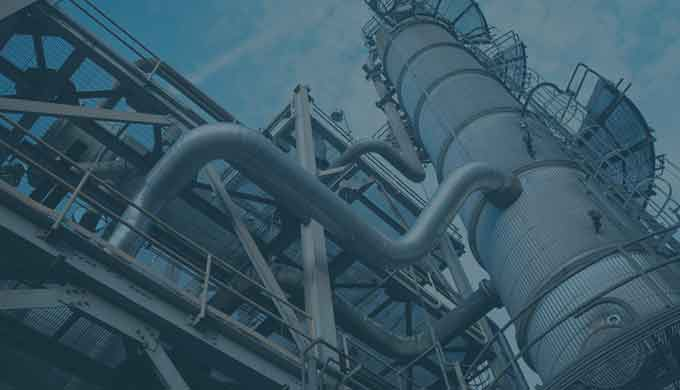
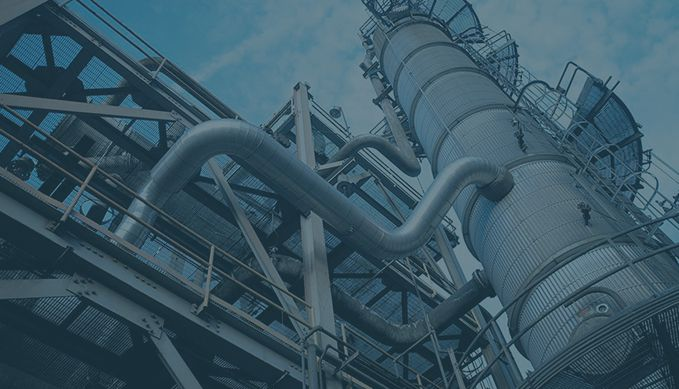
making adjustments per Elana's instructions

diff --git a/innovation/2014-06-02/desktop/css/style.css b/innovation/2014-06-02/desktop/css/style.css
@@ -6,10 +6,10 @@
 
 html, body { margin: 0; padding: 0; -webkit-font-smoothing: antialiased; -moz-osx-font-smoothing: grayscale; }
 
-a { -webkit-transition: all 100ms linear; -moz-transition: all 100ms linear; -o-transition: all 100ms linear; -ms-transition: all 100ms linear; transition: all 100ms linear; color: inherit; text-decoration: none; }
-a:hover { opacity: 0.7; }
-a.no-fade { opacity: 1.0 !important; }
-a.no-fade:hover { opacity: 1.0 !important; }
+.learn-more { -webkit-transition: all 100ms linear; -moz-transition: all 100ms linear; -o-transition: all 100ms linear; -ms-transition: all 100ms linear; transition: all 100ms linear; color: inherit; text-decoration: none; }
+.learn-more:hover { opacity: 0.7; }
+.learn-more.no-fade { opacity: 1.0 !important; }
+.learn-more.no-fade:hover { opacity: 1.0 !important; }
 
 ul li { list-style-type: none; padding: 0; }
 
@@ -20,8 +20,10 @@ img { opacity: inherit; }
 .logo { position: absolute; right: 20px; bottom: 15px; z-index: 4000; }
 
 ul.carousel { margin: 0; padding-top: 40px; padding-left: 0; }
-ul.carousel li { -webkit-border-radius: 10px; -moz-border-radius: 10px; border-radius: 10px; width: 680px; height: 390px; background: #ffffff; display: inline-block; -webkit-transition: all 0.3s ease-in-out; -moz-transition: all 0.3s ease-in-out; transition: all 0.3s ease-in-out; overflow: hidden; cursor: pointer; background-color: #55A6C8; box-shadow: 0 0 20px 0 rgba(0, 0, 0, 0.5); }
-ul.carousel li .text { position: absolute; top: 0; left: 0; }
+ul.carousel li { -webkit-border-radius: 10px; -moz-border-radius: 10px; border-radius: 10px; height: 390px; display: inline-block; -webkit-transition: all 0.3s ease-in-out; -moz-transition: all 0.3s ease-in-out; transition: all 0.3s ease-in-out; overflow: hidden; cursor: pointer; box-shadow: 0 0 20px 0 rgba(0, 0, 0, 0.5); }
+ul.carousel li .text { position: absolute; top: 0; left: 0; width: 100%; height: 100%; }
+ul.carousel li .overlay { position: absolute; top: 0; left: 0; opacity: 0; width: 100%; height: 100%; background-color: rgba(0, 0, 0, 0.8); -webkit-transition: opacity 300ms linear; -moz-transition: opacity 300ms linear; -ms-transition: opacity 300ms linear; -o-transition: opacity 300ms linear; transition: opacity 300ms linear; }
+ul.carousel li.back-pos .overlay, ul.carousel li.left-pos .overlay, ul.carousel li.right-pos .overlay { opacity: 1; z-index: 1; }
 
 .items { position: absolute; }
 
@@ -42,7 +44,6 @@ ul.carousel li .text { position: absolute; top: 0; left: 0; }
 .arrow-right { right: 15px; }
 
 .learn-more { position: absolute; bottom: 0; right: 0; }
-.learn-more:hover { opacity: 0.7; }
 
 @media only screen and (max-width: 1000px) { .carousel { padding-top: 100px !important; -ms-transform: scale(0.8); -webkit-transform: scale(0.8); transform: scale(0.8); } }
 @media only screen and (max-width: 850px) { .carousel { padding-top: 150px !important; -ms-transform: scale(0.6); -webkit-transform: scale(0.6); transform: scale(0.6); } }

diff --git a/innovation/2014-06-02/desktop/index.html b/innovation/2014-06-02/desktop/index.html
@@ -41,36 +41,46 @@
 		<ul class="carousel">
 			<li class="items main-pos" id="1">
 				<img src="images/slide-intro-background.jpg"/>
-				<img class="text" src="images/slide-intro-text.png"/><!--<img class="learn-more" src="images/click-to-explore.png"/>-->
+				<img class="text" src="images/slide-intro-text.png"/>
+				<div class="overlay"></div>
 			</li>
 			<li class="items right-pos" id="2">
 				<img src="images/slide-1-background.jpg"/>
 				<img class="text" src="images/slide-1-text.png"/>
+				<div class="overlay"></div>
 			</li>
 			<li class="items back-pos" id="3">
 				<img src="images/slide-3-background.jpg"/>
 				<img class="text" src="images/slide-3-text.png"/>
+				<div class="overlay"></div>
 			</li>
 			<li class="items back-pos" id="4">
 				<img src="images/slide-4-background.jpg"/>
 				<img class="text" src="images/slide-4-text.png"/>
+				<div class="overlay"></div>
 			</li>
 			<li class="items back-pos" id="5">
 				<img src="images/slide-5-background.jpg"/>
 				<img class="text" src="images/slide-5-text.png"/>
+				<div class="overlay"></div>
 			</li>
 			<li class="items back-pos" id="6">
 				<img src="images/slide-6-background.jpg"/>
 				<img class="text" src="images/slide-6-text.png"/>
+				<div class="overlay"></div>
 			</li>
 			<li class="items back-pos" id="7">
 				<img src="images/slide-2-background.jpg"/>
 				<img class="text" src="images/slide-2-text.png"/>
+				<div class="overlay"></div>
 			</li>
 			<li class="items back-pos" id="8">
-				<img src="images/slide-7-background.jpg"/>
-				<img class="text" src="images/slide-7-text.png"/><a href="http://www.ge.com/in/" target="_blank">
-				<img class="learn-more" src="images/learn-more.png"/></a>
+				<a href="http://www.ge.com/in/" target="_blank">
+					<img src="images/slide-7-background.jpg"/>
+					<img class="text" src="images/slide-7-text.png"/>
+					<img class="learn-more" src="images/learn-more.png"/>
+					<div class="overlay"></div>
+				</a>
 			</li>
 		</ul>
 

diff --git a/innovation/2014-06-02/desktop/scss/style.scss b/innovation/2014-06-02/desktop/scss/style.scss
@@ -22,7 +22,7 @@ html, body {
 	-moz-osx-font-smoothing: grayscale;
 }
 
-a {
+.learn-more {
 	-webkit-transition: all 100ms linear;
 	-moz-transition: all 100ms linear;
 	-o-transition: all 100ms linear;
@@ -30,11 +30,14 @@ a {
 	transition: all 100ms linear;
 	color: inherit;
 	text-decoration: none;
+
 	&:hover {
 		opacity: 0.7;
 	}
 	&.no-fade {
+
 		opacity: 1.0 !important;
+		
 		&:hover {
 			opacity: 1.0 !important;
 		}
@@ -70,25 +73,46 @@ ul.carousel {
 	margin: 0;
 	padding-top: 40px;
 	padding-left: 0;
+
 	li {
 		-webkit-border-radius: 10px;
 		-moz-border-radius: 10px;
 		border-radius: 10px;
-		width: 680px;
 		height: 390px;
-		background: #ffffff;
 		display: inline-block;
 		-webkit-transition: all 0.3s ease-in-out;
 		-moz-transition: all 0.3s ease-in-out;
 		transition: all 0.3s ease-in-out;
 		overflow: hidden;
 		cursor: pointer;
-		background-color: #55A6C8;
 		box-shadow: 0 0 20px 0 rgba(0, 0, 0, 0.5);
+
 		.text {
 			position: absolute;
 			top: 0;
 			left: 0;
+			width: 100%;
+			height: 100%;
+		}
+		.overlay {
+			position: absolute;
+			top: 0;
+			left: 0;
+			opacity: 0;
+			width: 100%;
+			height: 100%;
+			background-color: rgba(0,0,0,.8);
+			-webkit-transition: opacity 300ms linear;
+			-moz-transition: opacity 300ms linear;
+			-ms-transition: opacity 300ms linear;
+			-o-transition: opacity 300ms linear;
+			transition: opacity 300ms linear;
+		}
+		&.back-pos, &.left-pos, &.right-pos {
+			.overlay {
+				opacity: 1;
+				z-index: 1;
+			}
 		}
 	}
 }
@@ -154,9 +178,10 @@ ul.carousel {
 	position: absolute;
 	bottom: 0;
 	right: 0;
-	&:hover {
-		opacity: 0.7;
-	}
+
+	// &:hover {
+	// 	opacity: 0.7;
+	// }
 }
 
 @media only screen and (max-width: 1000px) {

diff --git a/innovation/2014-06-02/tablet/css/style.css b/innovation/2014-06-02/tablet/css/style.css
@@ -6,10 +6,10 @@
 
 html, body { margin: 0; padding: 0; -webkit-font-smoothing: antialiased; -moz-osx-font-smoothing: grayscale; }
 
-a { -webkit-transition: all 100ms linear; -moz-transition: all 100ms linear; -o-transition: all 100ms linear; -ms-transition: all 100ms linear; transition: all 100ms linear; color: inherit; text-decoration: none; }
-a:hover { opacity: 0.7; }
-a.no-fade { opacity: 1.0 !important; }
-a.no-fade:hover { opacity: 1.0 !important; }
+.learn-more { -webkit-transition: all 100ms linear; -moz-transition: all 100ms linear; -o-transition: all 100ms linear; -ms-transition: all 100ms linear; transition: all 100ms linear; color: inherit; text-decoration: none; }
+.learn-more:hover { opacity: 0.7; }
+.learn-more.no-fade { opacity: 1.0 !important; }
+.learn-more.no-fade:hover { opacity: 1.0 !important; }
 
 ul li { list-style-type: none; padding: 0; }
 
@@ -49,4 +49,3 @@ ul.carousel li .text { position: absolute; top: 0; left: 0; width: 100%; }
 .arrow-right { right: 15px; }
 
 .learn-more { position: absolute; bottom: 0; right: 0; width: 225px; }
-.learn-more:hover { opacity: 0.7; }

diff --git a/innovation/2014-06-02/tablet/index.html b/innovation/2014-06-02/tablet/index.html
@@ -75,11 +75,12 @@
 				<div class="overlay"><div>
 			</li>
 			<li class="items back-pos" id="8">
-				<img src="images/slide-8-background.jpg"/>
-				<img class="text" src="images/slide-8-text.png"/>
 				<a href="http://www.ge.com/in/" target="_blank">
+					<img src="images/slide-8-background.jpg"/>
+					<img class="text" src="images/slide-8-text.png"/>
 					<img class="learn-more" src="images/learn-more.png"/>
-				</a><div class="overlay"><div>
+					<div class="overlay"><div>
+				</a>
 			</li>
 		</ul>
 

diff --git a/innovation/2014-06-02/tablet/scss/style.scss b/innovation/2014-06-02/tablet/scss/style.scss
@@ -22,7 +22,7 @@ html, body {
 	-moz-osx-font-smoothing: grayscale;
 }
 
-a {
+.learn-more {
 	-webkit-transition: all 100ms linear;
 	-moz-transition: all 100ms linear;
 	-o-transition: all 100ms linear;
@@ -30,6 +30,7 @@ a {
 	transition: all 100ms linear;
 	color: inherit;
 	text-decoration: none;
+	
 	&:hover {
 		opacity: 0.7;
 	}
@@ -194,7 +195,7 @@ ul.carousel {
 	right: 0;
 	width: 225px;
 
-	&:hover {
-		opacity: 0.7;
-	}
+	// &:hover {
+	// 	opacity: 0.7;
+	// }
 }

diff --git a/innovation/2014-06-02/desktop/js/app.js b/innovation/2014-06-02/desktop/js/app.js
@@ -55,7 +55,6 @@ function swap(action) {
 				startItem = itemCount;
 			}
 		}
-		console.log(startItem);
 		if(startItem == 1){
 			$('#prev').addClass('hide');
 		}
@@ -106,7 +105,6 @@ function swap(action) {
 			// 	startItem = 1;
 			// }
 		}
-		console.log(startItem);
 		if(startItem > 1){
 			$('#prev').removeClass('hide');
 		}

diff --git a/innovation/2014-06-02/desktop_ranger/assets/css/main.css b/innovation/2014-06-02/desktop_ranger/assets/css/main.css
@@ -48,7 +48,7 @@ img {
   min-width: 700px;
   width: 100%;
   height: 480px;
-  background: url(../images/background.gif) no-repeat left center;
+  background: url(../imgs/background.gif) no-repeat left center;
 }
 .logo {
   position: absolute;
